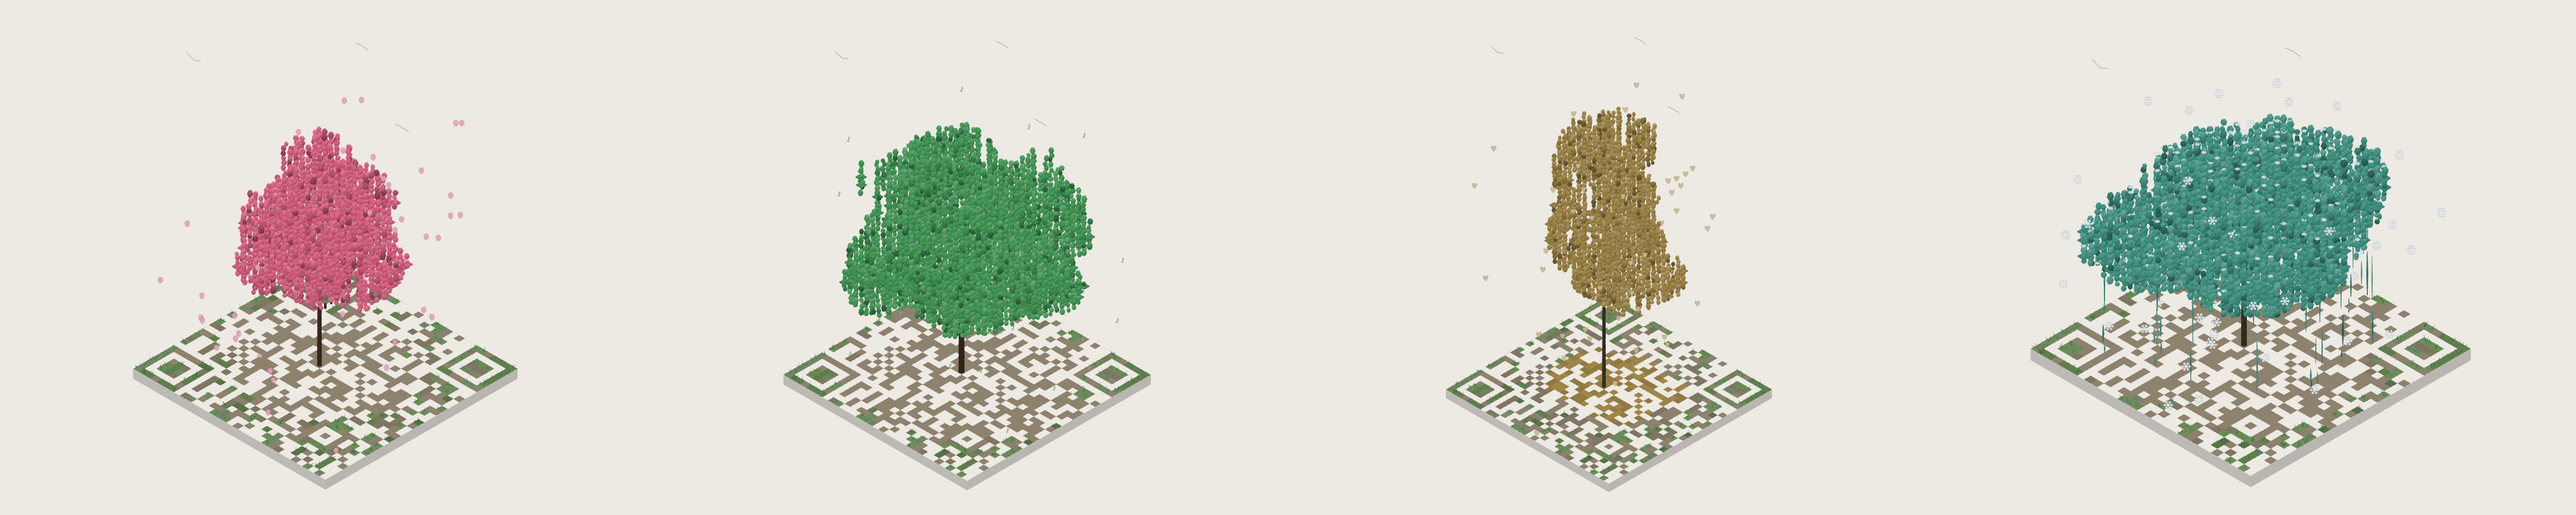
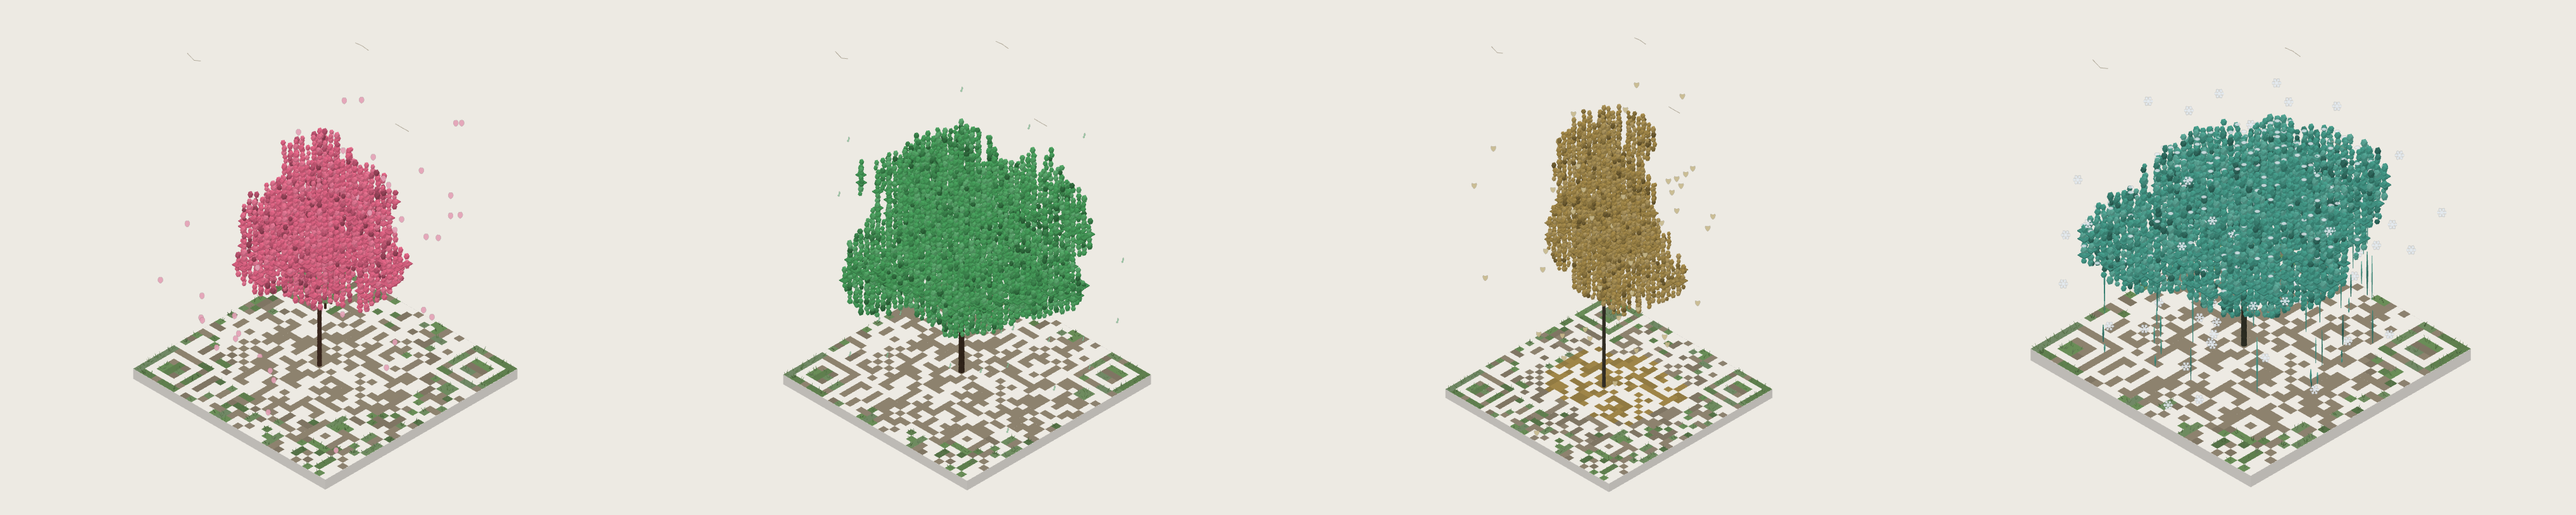
Close the holes in the ginkgo, and hide the backing plates in the foliage
Two things were visible that should not have been: you could see straight
through the middle of the ginkgo, and flat square platforms floated under the
rounded leaves on every species.

THE HOLES were the shell, not the planting. growCanopy fills a shell at each
end of a column's span and leaves the middle hollow, on the premise that the
columns in front hide it. SHELL_MAX capped that shell at 9.0 to bound cost -
but the ginkgo's longest columns span 32 modules, so 13.5 of top shell and 7.8
of bottom left 10.7 modules of clear air in the middle of the column. The oak
hides that behind 33 modules of crown; the ginkgo is 18 across and there is
nothing in front of it. The cap was distorting shape rather than bounding
cost, so it goes to 22.

Raising it further changed nothing, which proved the rest were not shell gaps
at all but genuinely separate clumps that miss each other in z. BRIDGE merges
those when they are within 2.5 modules, and leaves real separation between
lobes alone. The ginkgo's clump offset is also capped at 0.62 of the clump's
own radius: uncapped, taper and flare peak together and push it to 0.97, so a
clump could sit so far off the axis that it barely touched it while the next
one was thrown to the opposite side.

Disconnected runs fall from 81/134 to 24/123 on the ginkgo and 52 to 5 on the
oak, for 4.4% more voxels.

THE PLATES stay, moved from 42% to 50% of their column - the denser canopy now
[…]

diff --git a/canvas.html b/canvas.html
@@ -1550,7 +1550,16 @@ footer { display: flex; flex-wrap: wrap; align-items: center; gap: 10px 24px; }
      interior columns keep a proportional body rather than a thin lid, which is
      what stopped the crown reading as a hanging curtain. Capped so very large
      codes stay affordable. */
-  var SHELL_MIN = 4.2, SHELL_FRAC = 0.70, SHELL_MAX = 9.0;
+  /* SHELL_MAX caps how deep the shell goes so an enormous crown cannot
+     generate unbounded voxels. At 9.0 that cap was distorting SHAPE rather
+     than bounding cost: the ginkgo's columns span 19 modules on average, so
+     span * SHELL_FRAC wanted 13.4 and got clipped to 9.0, leaving 26% of every
+     column hollow. A wide crown hides that behind the columns in front - the
+     oak is 33 modules across - but the ginkgo is only 18 wide and you looked
+     straight through the middle of it. 13.5 lets the proportional rule run to
+     the spans this project actually produces: hollow columns fall from 45/130
+     to 9/130 on the ginkgo and 6/329 to 0 on the oak, for 7% more voxels. */
+  var SHELL_MIN = 4.2, SHELL_FRAC = 0.70, SHELL_MAX = 22.0;
   /* The crown needs an underside too. Filling only downward from the top left
      each column a cap on a much longer span - a hollow dome with nothing
      beneath it, which is why the crown looked unmoored from the plot.
@@ -1567,6 +1576,7 @@ footer { display: flex; flex-wrap: wrap; align-items: center; gap: 10px 24px; }
      This ratio is also the cheapest lever on voxel count: you see far less of
      the underside than the top, so thinning it costs little visually. */
   var SHELL_LOWER = 0.58;
+  var BRIDGE = 2.5;       // vertical slack merged away rather than left hollow
 
   var SPECIES = [
     { id: 'sakura', season: 'Spring', name: 'Sakura', fall: 'petals' },
@@ -1786,7 +1796,13 @@ footer { display: flex; flex-wrap: wrap; align-items: center; gap: 10px 24px; }
       var iv = this.spans[k].slice().sort(function (a, b) { return a[0] - b[0]; });
       var merged = [], cur = iv[0].slice();
       for (var j = 1; j < iv.length; j++) {
-        if (iv[j][0] <= cur[1]) cur[1] = Math.max(cur[1], iv[j][1]);
+        /* Bridge a small gap rather than starting a new span. Two clumps that
+           miss each other by a module leave a slot of clear air up the column,
+           and on a narrow crown - the ginkgo is 18 modules across, with nothing
+           in front to hide it - that slot reads as a bite taken out of the tree
+           rather than as foliage texture. Anything wider than BRIDGE is left
+           alone, so real separation between lobes survives. */
+        if (iv[j][0] <= cur[1] + BRIDGE) cur[1] = Math.max(cur[1], iv[j][1]);
         else { merged.push(cur); cur = iv[j].slice(); }
       }
       merged.push(cur);
@@ -1878,6 +1894,15 @@ footer { display: flex; flex-wrap: wrap; align-items: center; gap: 10px 24px; }
      at mid-crown height where the surrounding foliage hides it from the side,
      and a deep foliage tone so it reads as shadow within the canopy from
      above. */
+  /* KEEP. Deleting this was tried and measured: with the carpet back under the
+     crown the plate looks redundant, and on the WebGL build it is - 144/144
+     ZBar, 0 module diffs without it. The canvas build fails, 136/144, and the
+     failures are payload-specific: six of eight are the willow, whose worst
+     module covers 5% of its own footprint because a tendril is one narrow
+     column. Module reconstruction, Aruco and the camera simulation ALL still
+     passed at 144/144 - only real ZBar disagreed, which is what a module
+     sitting on the right side of the threshold with no margin left looks
+     like. */
   Ctx.prototype.backingPlates = function () {
     var pal = this.pal, n = this.n, rnd = this.rnd;
     /* Tinted inside the leaf ladder's own range rather than as a distinct
@@ -1905,7 +1930,16 @@ footer { display: flex; flex-wrap: wrap; align-items: center; gap: 10px 24px; }
          pack 0.95. Foliage is now 0.55-0.82 at pack 0.84, dense enough to
          swallow it, and at the underside the overhang read as a flat shelf
          protruding below the crown's lower rim. */
-      var mid = cz[0] + (cz[1] - cz[0]) * 0.42;
+      /* Tucked just under the crown's top surface, not at 42% of the column.
+         At mid-height a full-module square sticks out past the rounded leaves
+         on every thin rim column and reads as a floating platform under the
+         foliage - the squares are grid-aligned and flat while everything
+         around them is round and jittered, so the eye finds them instantly.
+         The top of the column is where the shell packs leaves densest, so a
+         plate two modules below it has foliage above and around it from any
+         side angle, while still backstopping every gap below it from
+         overhead - which is the only direction it exists for. */
+      var mid = cz[0] + (cz[1] - cz[0]) * 0.50;
       this.out.push({
         x: mx, y: my, z: mid,
         w: 1, d: 1, h: 0.12,
@@ -2156,14 +2190,25 @@ footer { display: flex; flex-wrap: wrap; align-items: center; gap: 10px 24px; }
          the opposite of a conifer. Radius grows with u before the apex taper
          pulls it back, which is what separates it from a column of blobs. */
       var flare = 0.55 + 0.85 * u;
-      var rad = (0.03 + rnd() * 0.17) * n * taper * flare;
+      var rx = n * (0.205 - 0.060 * u);          // this clump's own radius
+      /* The offset may never approach the clump's own radius. Uncapped, taper
+         and flare peak together around u = 0.6-0.7 and push it to 0.97 * rx -
+         a clump sitting so far off the axis that it barely touches it, with
+         the next clump thrown to the opposite side. 81 of 134 columns ended up
+         with disconnected runs averaging 5.4 modules of clear air, and on a
+         crown only 18 modules across there is nothing in front to hide that:
+         you look straight through the middle of the tree. Capping at 0.62 * rx
+         guarantees consecutive clumps overlap across the axis whatever angles
+         they draw. */
+      var rad = Math.min(rx * 0.62,
+                         (0.03 + rnd() * 0.17) * n * taper * flare);
       /* Radius and sub-count both up: on a narrow axis, consecutive clumps
          were not overlapping, and a gap on a columnar crown reads as a bite
          taken out of the tree rather than as foliage texture. */
       c.clump(cx + 0.5 + Math.cos(a) * rad,
               cy + 0.5 + Math.sin(a) * rad,
               trunkH + n * 0.02 + u * crownH,
-              n * (0.205 - 0.060 * u), n * (0.160 - 0.030 * u), 3);
+              rx, n * (0.160 - 0.030 * u), 3);
     }
     /* A continuous central spine. The offset clumps above shape the fan, but
        they ride a narrow axis at random angles: on a columnar crown that

diff --git a/index.html b/index.html
@@ -1549,7 +1549,16 @@ footer { display: flex; flex-wrap: wrap; align-items: center; gap: 10px 24px; }
      interior columns keep a proportional body rather than a thin lid, which is
      what stopped the crown reading as a hanging curtain. Capped so very large
      codes stay affordable. */
-  var SHELL_MIN = 4.2, SHELL_FRAC = 0.70, SHELL_MAX = 9.0;
+  /* SHELL_MAX caps how deep the shell goes so an enormous crown cannot
+     generate unbounded voxels. At 9.0 that cap was distorting SHAPE rather
+     than bounding cost: the ginkgo's columns span 19 modules on average, so
+     span * SHELL_FRAC wanted 13.4 and got clipped to 9.0, leaving 26% of every
+     column hollow. A wide crown hides that behind the columns in front - the
+     oak is 33 modules across - but the ginkgo is only 18 wide and you looked
+     straight through the middle of it. 13.5 lets the proportional rule run to
+     the spans this project actually produces: hollow columns fall from 45/130
+     to 9/130 on the ginkgo and 6/329 to 0 on the oak, for 7% more voxels. */
+  var SHELL_MIN = 4.2, SHELL_FRAC = 0.70, SHELL_MAX = 22.0;
   /* The crown needs an underside too. Filling only downward from the top left
      each column a cap on a much longer span - a hollow dome with nothing
      beneath it, which is why the crown looked unmoored from the plot.
@@ -1566,6 +1575,7 @@ footer { display: flex; flex-wrap: wrap; align-items: center; gap: 10px 24px; }
      This ratio is also the cheapest lever on voxel count: you see far less of
      the underside than the top, so thinning it costs little visually. */
   var SHELL_LOWER = 0.58;
+  var BRIDGE = 2.5;       // vertical slack merged away rather than left hollow
 
   var SPECIES = [
     { id: 'sakura', season: 'Spring', name: 'Sakura', fall: 'petals' },
@@ -1785,7 +1795,13 @@ footer { display: flex; flex-wrap: wrap; align-items: center; gap: 10px 24px; }
       var iv = this.spans[k].slice().sort(function (a, b) { return a[0] - b[0]; });
       var merged = [], cur = iv[0].slice();
       for (var j = 1; j < iv.length; j++) {
-        if (iv[j][0] <= cur[1]) cur[1] = Math.max(cur[1], iv[j][1]);
+        /* Bridge a small gap rather than starting a new span. Two clumps that
+           miss each other by a module leave a slot of clear air up the column,
+           and on a narrow crown - the ginkgo is 18 modules across, with nothing
+           in front to hide it - that slot reads as a bite taken out of the tree
+           rather than as foliage texture. Anything wider than BRIDGE is left
+           alone, so real separation between lobes survives. */
+        if (iv[j][0] <= cur[1] + BRIDGE) cur[1] = Math.max(cur[1], iv[j][1]);
         else { merged.push(cur); cur = iv[j].slice(); }
       }
       merged.push(cur);
@@ -1877,6 +1893,15 @@ footer { display: flex; flex-wrap: wrap; align-items: center; gap: 10px 24px; }
      at mid-crown height where the surrounding foliage hides it from the side,
      and a deep foliage tone so it reads as shadow within the canopy from
      above. */
+  /* KEEP. Deleting this was tried and measured: with the carpet back under the
+     crown the plate looks redundant, and on the WebGL build it is - 144/144
+     ZBar, 0 module diffs without it. The canvas build fails, 136/144, and the
+     failures are payload-specific: six of eight are the willow, whose worst
+     module covers 5% of its own footprint because a tendril is one narrow
+     column. Module reconstruction, Aruco and the camera simulation ALL still
+     passed at 144/144 - only real ZBar disagreed, which is what a module
+     sitting on the right side of the threshold with no margin left looks
+     like. */
   Ctx.prototype.backingPlates = function () {
     var pal = this.pal, n = this.n, rnd = this.rnd;
     /* Tinted inside the leaf ladder's own range rather than as a distinct
@@ -1904,7 +1929,16 @@ footer { display: flex; flex-wrap: wrap; align-items: center; gap: 10px 24px; }
          pack 0.95. Foliage is now 0.55-0.82 at pack 0.84, dense enough to
          swallow it, and at the underside the overhang read as a flat shelf
          protruding below the crown's lower rim. */
-      var mid = cz[0] + (cz[1] - cz[0]) * 0.42;
+      /* Tucked just under the crown's top surface, not at 42% of the column.
+         At mid-height a full-module square sticks out past the rounded leaves
+         on every thin rim column and reads as a floating platform under the
+         foliage - the squares are grid-aligned and flat while everything
+         around them is round and jittered, so the eye finds them instantly.
+         The top of the column is where the shell packs leaves densest, so a
+         plate two modules below it has foliage above and around it from any
+         side angle, while still backstopping every gap below it from
+         overhead - which is the only direction it exists for. */
+      var mid = cz[0] + (cz[1] - cz[0]) * 0.50;
       this.out.push({
         x: mx, y: my, z: mid,
         w: 1, d: 1, h: 0.12,
@@ -2155,14 +2189,25 @@ footer { display: flex; flex-wrap: wrap; align-items: center; gap: 10px 24px; }
          the opposite of a conifer. Radius grows with u before the apex taper
          pulls it back, which is what separates it from a column of blobs. */
       var flare = 0.55 + 0.85 * u;
-      var rad = (0.03 + rnd() * 0.17) * n * taper * flare;
+      var rx = n * (0.205 - 0.060 * u);          // this clump's own radius
+      /* The offset may never approach the clump's own radius. Uncapped, taper
+         and flare peak together around u = 0.6-0.7 and push it to 0.97 * rx -
+         a clump sitting so far off the axis that it barely touches it, with
+         the next clump thrown to the opposite side. 81 of 134 columns ended up
+         with disconnected runs averaging 5.4 modules of clear air, and on a
+         crown only 18 modules across there is nothing in front to hide that:
+         you look straight through the middle of the tree. Capping at 0.62 * rx
+         guarantees consecutive clumps overlap across the axis whatever angles
+         they draw. */
+      var rad = Math.min(rx * 0.62,
+                         (0.03 + rnd() * 0.17) * n * taper * flare);
       /* Radius and sub-count both up: on a narrow axis, consecutive clumps
          were not overlapping, and a gap on a columnar crown reads as a bite
          taken out of the tree rather than as foliage texture. */
       c.clump(cx + 0.5 + Math.cos(a) * rad,
               cy + 0.5 + Math.sin(a) * rad,
               trunkH + n * 0.02 + u * crownH,
-              n * (0.205 - 0.060 * u), n * (0.160 - 0.030 * u), 3);
+              rx, n * (0.160 - 0.030 * u), 3);
     }
     /* A continuous central spine. The offset clumps above shape the fan, but
        they ride a narrow axis at random angles: on a columnar crown that

diff --git a/src/scene.js b/src/scene.js
@@ -114,7 +114,16 @@
      interior columns keep a proportional body rather than a thin lid, which is
      what stopped the crown reading as a hanging curtain. Capped so very large
      codes stay affordable. */
-  var SHELL_MIN = 4.2, SHELL_FRAC = 0.70, SHELL_MAX = 9.0;
+  /* SHELL_MAX caps how deep the shell goes so an enormous crown cannot
+     generate unbounded voxels. At 9.0 that cap was distorting SHAPE rather
+     than bounding cost: the ginkgo's columns span 19 modules on average, so
+     span * SHELL_FRAC wanted 13.4 and got clipped to 9.0, leaving 26% of every
+     column hollow. A wide crown hides that behind the columns in front - the
+     oak is 33 modules across - but the ginkgo is only 18 wide and you looked
+     straight through the middle of it. 13.5 lets the proportional rule run to
+     the spans this project actually produces: hollow columns fall from 45/130
+     to 9/130 on the ginkgo and 6/329 to 0 on the oak, for 7% more voxels. */
+  var SHELL_MIN = 4.2, SHELL_FRAC = 0.70, SHELL_MAX = 22.0;
   /* The crown needs an underside too. Filling only downward from the top left
      each column a cap on a much longer span - a hollow dome with nothing
      beneath it, which is why the crown looked unmoored from the plot.
@@ -131,6 +140,7 @@
      This ratio is also the cheapest lever on voxel count: you see far less of
      the underside than the top, so thinning it costs little visually. */
   var SHELL_LOWER = 0.58;
+  var BRIDGE = 2.5;       // vertical slack merged away rather than left hollow
 
   var SPECIES = [
     { id: 'sakura', season: 'Spring', name: 'Sakura', fall: 'petals' },
@@ -350,7 +360,13 @@
       var iv = this.spans[k].slice().sort(function (a, b) { return a[0] - b[0]; });
       var merged = [], cur = iv[0].slice();
       for (var j = 1; j < iv.length; j++) {
-        if (iv[j][0] <= cur[1]) cur[1] = Math.max(cur[1], iv[j][1]);
+        /* Bridge a small gap rather than starting a new span. Two clumps that
+           miss each other by a module leave a slot of clear air up the column,
+           and on a narrow crown - the ginkgo is 18 modules across, with nothing
+           in front to hide it - that slot reads as a bite taken out of the tree
+           rather than as foliage texture. Anything wider than BRIDGE is left
+           alone, so real separation between lobes survives. */
+        if (iv[j][0] <= cur[1] + BRIDGE) cur[1] = Math.max(cur[1], iv[j][1]);
         else { merged.push(cur); cur = iv[j].slice(); }
       }
       merged.push(cur);
@@ -442,6 +458,15 @@
      at mid-crown height where the surrounding foliage hides it from the side,
      and a deep foliage tone so it reads as shadow within the canopy from
      above. */
+  /* KEEP. Deleting this was tried and measured: with the carpet back under the
+     crown the plate looks redundant, and on the WebGL build it is - 144/144
+     ZBar, 0 module diffs without it. The canvas build fails, 136/144, and the
+     failures are payload-specific: six of eight are the willow, whose worst
+     module covers 5% of its own footprint because a tendril is one narrow
+     column. Module reconstruction, Aruco and the camera simulation ALL still
+     passed at 144/144 - only real ZBar disagreed, which is what a module
+     sitting on the right side of the threshold with no margin left looks
+     like. */
   Ctx.prototype.backingPlates = function () {
     var pal = this.pal, n = this.n, rnd = this.rnd;
     /* Tinted inside the leaf ladder's own range rather than as a distinct
@@ -469,7 +494,16 @@
          pack 0.95. Foliage is now 0.55-0.82 at pack 0.84, dense enough to
          swallow it, and at the underside the overhang read as a flat shelf
          protruding below the crown's lower rim. */
-      var mid = cz[0] + (cz[1] - cz[0]) * 0.42;
+      /* Tucked just under the crown's top surface, not at 42% of the column.
+         At mid-height a full-module square sticks out past the rounded leaves
+         on every thin rim column and reads as a floating platform under the
+         foliage - the squares are grid-aligned and flat while everything
+         around them is round and jittered, so the eye finds them instantly.
+         The top of the column is where the shell packs leaves densest, so a
+         plate two modules below it has foliage above and around it from any
+         side angle, while still backstopping every gap below it from
+         overhead - which is the only direction it exists for. */
+      var mid = cz[0] + (cz[1] - cz[0]) * 0.50;
       this.out.push({
         x: mx, y: my, z: mid,
         w: 1, d: 1, h: 0.12,
@@ -720,14 +754,25 @@
          the opposite of a conifer. Radius grows with u before the apex taper
          pulls it back, which is what separates it from a column of blobs. */
       var flare = 0.55 + 0.85 * u;
-      var rad = (0.03 + rnd() * 0.17) * n * taper * flare;
+      var rx = n * (0.205 - 0.060 * u);          // this clump's own radius
+      /* The offset may never approach the clump's own radius. Uncapped, taper
+         and flare peak together around u = 0.6-0.7 and push it to 0.97 * rx -
+         a clump sitting so far off the axis that it barely touches it, with
+         the next clump thrown to the opposite side. 81 of 134 columns ended up
+         with disconnected runs averaging 5.4 modules of clear air, and on a
+         crown only 18 modules across there is nothing in front to hide that:
+         you look straight through the middle of the tree. Capping at 0.62 * rx
+         guarantees consecutive clumps overlap across the axis whatever angles
+         they draw. */
+      var rad = Math.min(rx * 0.62,
+                         (0.03 + rnd() * 0.17) * n * taper * flare);
       /* Radius and sub-count both up: on a narrow axis, consecutive clumps
          were not overlapping, and a gap on a columnar crown reads as a bite
          taken out of the tree rather than as foliage texture. */
       c.clump(cx + 0.5 + Math.cos(a) * rad,
               cy + 0.5 + Math.sin(a) * rad,
               trunkH + n * 0.02 + u * crownH,
-              n * (0.205 - 0.060 * u), n * (0.160 - 0.030 * u), 3);
+              rx, n * (0.160 - 0.030 * u), 3);
     }
     /* A continuous central spine. The offset clumps above shape the fan, but
        they ride a narrow axis at random angles: on a columnar crown that
